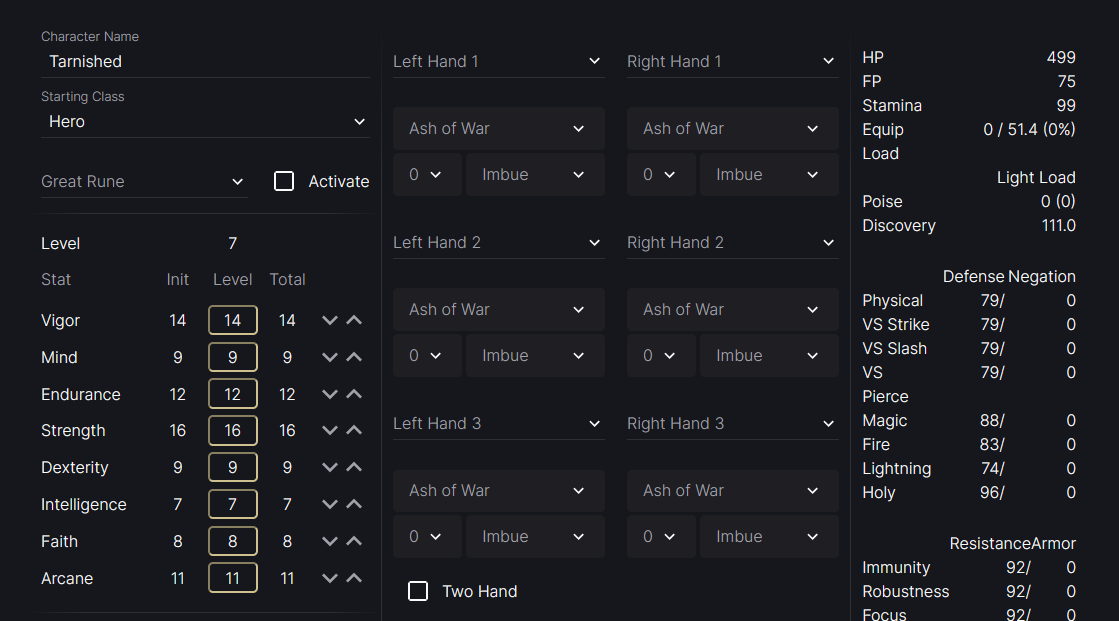
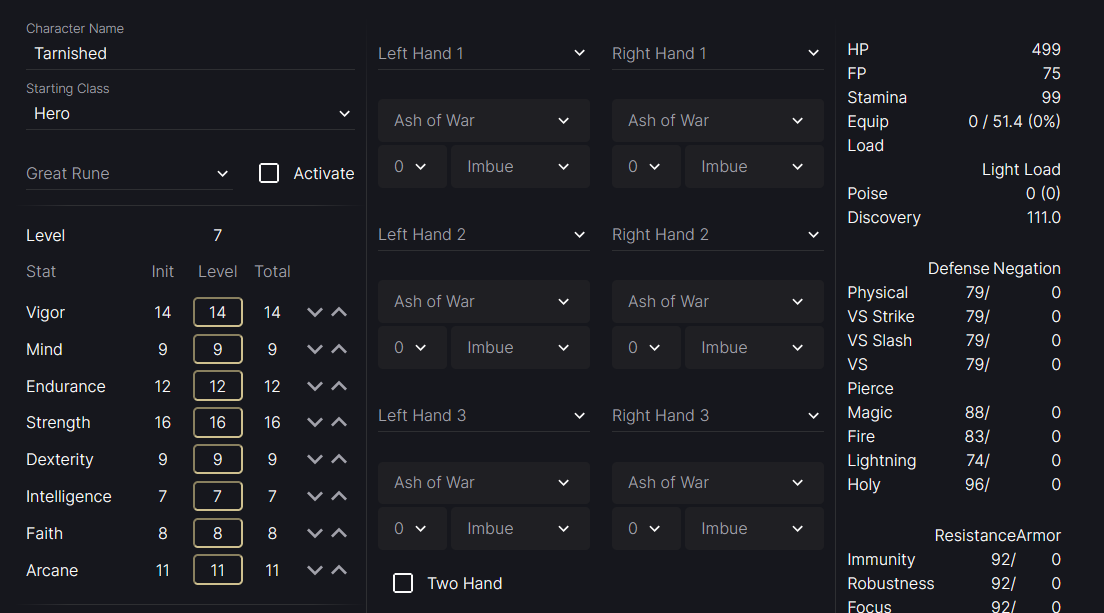
Frontend: replaced charplanner.png

diff --git a/frontend/src/components/Frontpage.scss b/frontend/src/components/Frontpage.scss
@@ -110,7 +110,7 @@
         width: 100%;
         height: 600px;
         background-color: hsl(v.$accent);
-        //border: 1px solid hsl(v.$border-color);
+        border: 1px solid hsl(v.$border-color);
         border-radius: v.$border-radius;
         box-shadow: 0 4px 20px rgba(0,0,0,.3);
 
@@ -141,7 +141,7 @@
         img {
             height: 100%;
             width: 100%;
-            object-fit: cover;
+            object-fit: none;
             object-position: top left;
             border-radius: v.$border-radius;
         }
